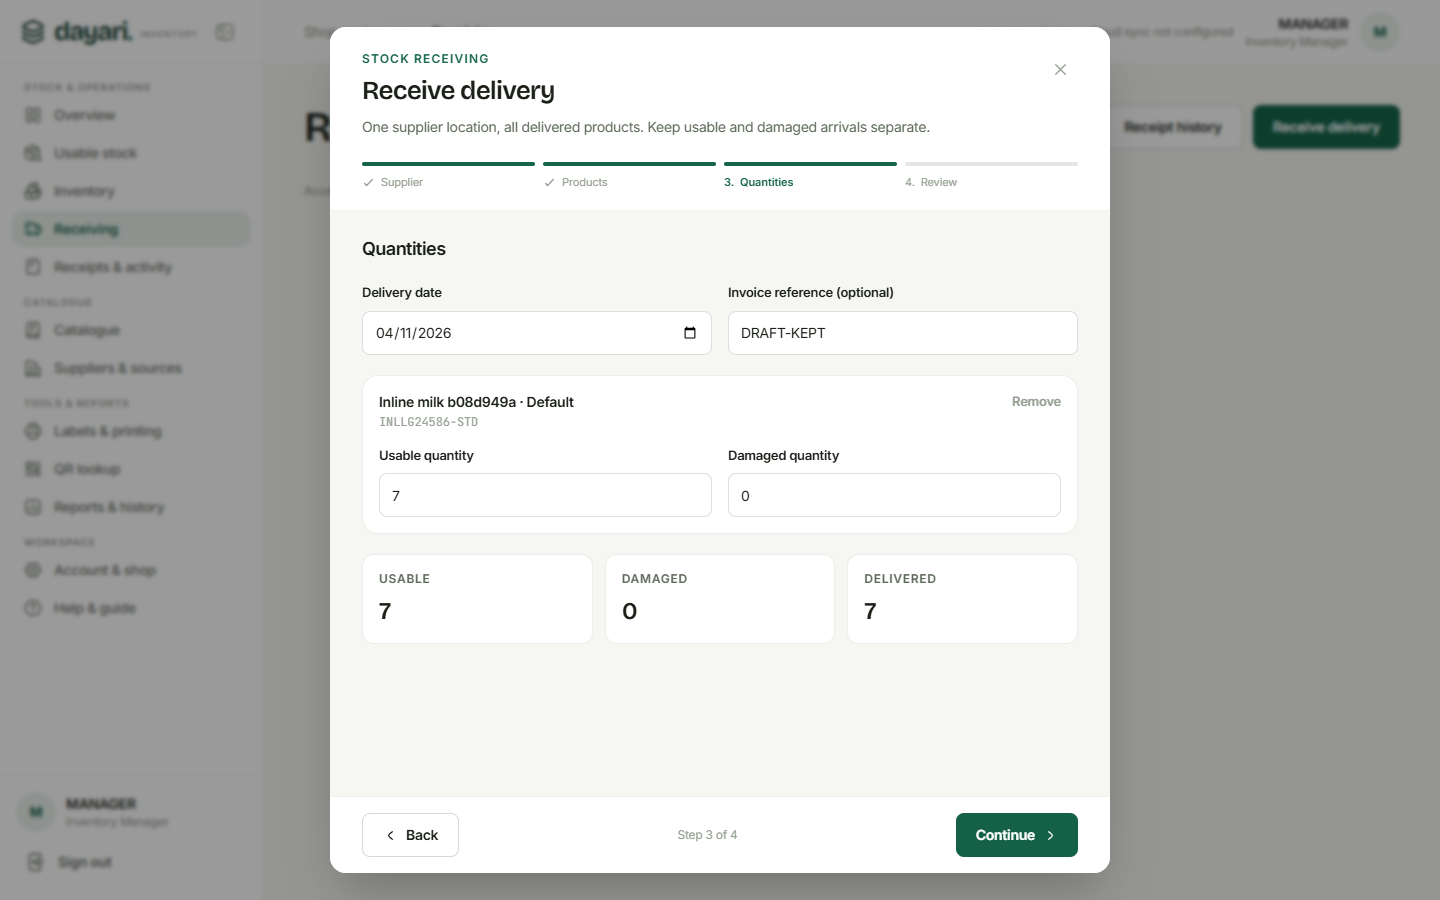
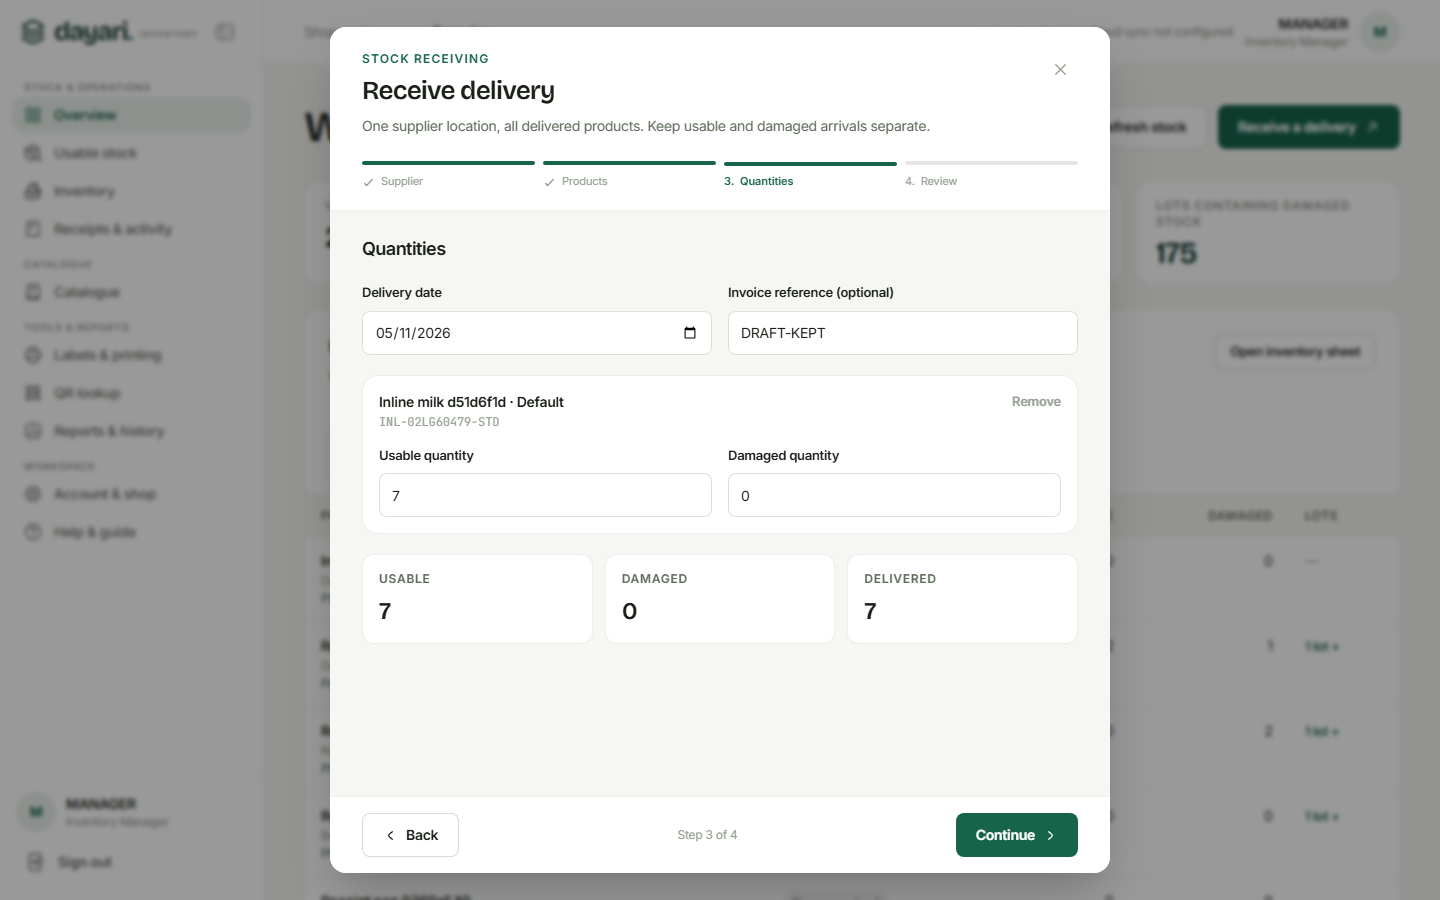
feat(receiving): open the receive wizard from any page
Overview and Receipts & activity start the same modal instead of routing to a separate page. After acceptance the user lands on the accepted receipt evidence, the workbench remounts so reads are fresh, and the Receiving route still works for deep links.

diff --git a/apps/web/app/page.tsx b/apps/web/app/page.tsx
@@ -1,6 +1,6 @@
 'use client';
 import { useCallback, useEffect, useRef, useState, type FormEvent } from 'react';
-import type { Catalogue, Role } from '@dayari/contracts';
+import type { Catalogue, ReceivingOptions, Role } from '@dayari/contracts';
 
 import { ApiError, api } from '../lib/api';
 import { AppShell } from '../components/shell/app-shell';
@@ -8,6 +8,7 @@ import { workspaceOrder, type Workspace } from '../components/shell/destinations
 import { LoginPage } from '../components/login-page';
 import { WorkspaceRouter } from '../components/workspace-router';
 import { ProductWizard, SupplierWizard } from '../components/catalogue/setup-wizards';
+import { ReceiveWizard } from '../components/receiving/receive-wizard';
 import { PasswordForm } from '../components/account-security';
 import { Button, ErrorNotice, SuccessNotice } from '../components/ui';
 
@@ -39,6 +40,17 @@ export default function DayariInventory() {
   const [flow, setFlow] = useState<'supplier' | 'product' | null>(null);
   const [supplierContext, setSupplierContext] = useState('');
   const [productContext, setProductContext] = useState('');
+
+  const [receiveOpen, setReceiveOpen] = useState(false);
+  const [receiveOptions, setReceiveOptions] = useState<ReceivingOptions | null>(null);
+  /** Remounts the active workspace after an accepted receipt so its reads refresh. */
+  const [dataVersion, setDataVersion] = useState(0);
+  /**
+   * Set after a receipt is accepted. The wizard still counts as busy while its
+   * save resolves, so the route change waits for the next commit, when the
+   * dialog has unmounted and its unsaved-draft guard is gone.
+   */
+  const [receiptToOpen, setReceiptToOpen] = useState('');
 
   const [detail, setDetail] = useState({
     catalogue: '',
@@ -140,6 +152,16 @@ export default function DayariInventory() {
     return () => window.removeEventListener('dayari:session-expired', expired);
   }, []);
 
+  useEffect(() => {
+    if (!receiptToOpen) return;
+
+    setReceiptToOpen('');
+    navigate('receipts', receiptToOpen);
+    setNotice('Delivery accepted. Receipt evidence and stock projections are updating.');
+    // navigate is declared below and is not a dependency of this one-shot handoff.
+    // eslint-disable-next-line react-hooks/exhaustive-deps
+  }, [receiptToOpen]);
+
   function navigate(next: Workspace, id = '', lotId = '') {
     if (!mayNavigate()) return;
 
@@ -194,6 +216,9 @@ export default function DayariInventory() {
       setCatalogueReady(false);
       setDetail({ catalogue: '', stock: '', lot: '', receipt: '', labelJob: '', qrCode: '' });
       setFlow(null);
+      setReceiveOpen(false);
+      setReceiveOptions(null);
+      setReceiptToOpen('');
       setError('');
       setNotice('');
     } catch (failure) {
@@ -220,6 +245,27 @@ export default function DayariInventory() {
     setError('');
     setNotice('');
     setFlow('product');
+  }
+
+  /**
+   * The receive wizard is a dialog, so any page can start a delivery without
+   * leaving its context. Options are loaded first to keep the dialog synchronous.
+   */
+  async function openReceive() {
+    setError('');
+    setNotice('');
+
+    try {
+      const options = await api<ReceivingOptions>('receiving/options');
+      if (!options.suppliers.length) {
+        setNotice('Ask Admin to register a supplier and its location prefix before receiving.');
+        return;
+      }
+      setReceiveOptions(options);
+      setReceiveOpen(true);
+    } catch (failure) {
+      setError((failure as Error).message);
+    }
   }
 
   async function saved(message: string) {
@@ -293,6 +339,7 @@ export default function DayariInventory() {
       ) : null}
 
       <WorkspaceRouter
+        key={dataVersion}
         workspace={current}
         catalogue={catalogue}
         catalogueReady={catalogueReady}
@@ -305,6 +352,7 @@ export default function DayariInventory() {
         onProductFlow={openProduct}
         onPasswordChanged={passwordChanged}
         onCatalogueChanged={setCatalogue}
+        onReceive={() => void openReceive()}
       />
 
       {flow === 'supplier' && user.role === 'ADMIN' ? (
@@ -323,6 +371,20 @@ export default function DayariInventory() {
           onClose={() => setFlow(null)}
           onSaved={saved}
           onConfigureSupplier={openSupplier}
+        />
+      ) : null}
+
+      {receiveOpen && receiveOptions ? (
+        <ReceiveWizard
+          options={receiveOptions}
+          onCatalogueChanged={setCatalogue}
+          onClose={() => setReceiveOpen(false)}
+          onSaved={(receipt) => {
+            setReceiveOpen(false);
+            setReceiveOptions(null);
+            setReceiptToOpen(receipt.id);
+            setDataVersion((version) => version + 1);
+          }}
         />
       ) : null}
     </AppShell>

diff --git a/tests/e2e/receiving-registration.spec.ts b/tests/e2e/receiving-registration.spec.ts
@@ -13,7 +13,7 @@ test('Manager registers products inside receiving while preserving the delivery 
   await expect(page.locator('[aria-label="Stock summary"] button')).toHaveCount(0);
   await expect(page.locator('[data-page-header] p')).toHaveCount(0);
   await page.getByRole('button',{name:'Sign out'}).click();await login('e2e-manager@dayari.test');
-  await page.getByRole('button',{name:'Receiving',exact:true}).click();await expect(page.getByText('Ready to receive',{exact:true})).toHaveCount(0);await page.getByRole('button',{name:'Receive delivery',exact:true}).click();
+  await page.getByRole('button',{name:'Receive a delivery',exact:true}).click();
   let dialog=page.getByRole('dialog');
   await choose(dialog,'Receiving supplier',supplier.supplier.id);
   await expect(dialog.getByRole('combobox',{name:'Receiving source',exact:true})).toHaveCount(0);
@@ -64,7 +64,8 @@ test('compact supplier lists and catalogue grids paginate with title-only header
   await page.getByRole('button',{name:'Catalogue',exact:true}).click();await expect(page.getByRole('button',{name:/View product/})).toHaveCount(18);
   await page.getByRole('button',{name:'Next page',exact:true}).click();await expect(page.getByText('Paged product 25',{exact:true})).toBeVisible();await expect(page.getByText('Paged product 01',{exact:true})).toHaveCount(0);
   await page.getByLabel('Search catalogue',{exact:true}).fill('product 01');await expect(page.getByText('Paged product 01',{exact:true})).toBeVisible();await expect(page.getByRole('button',{name:'Next page',exact:true})).toHaveCount(0);
-  await page.getByRole('button',{name:'Suppliers & sources',exact:true}).click();await expect(page.getByRole('heading',{name:/Paged supplier/})).toHaveCount(12);
+  await page.getByLabel('Search catalogue',{exact:true}).fill('');
+  await page.getByRole('button',{name:'Suppliers',exact:true}).click();await page.getByRole('button',{name:'Supplier directory',exact:true}).click();await expect(page.getByRole('heading',{name:/Paged supplier/})).toHaveCount(12);
   await page.getByRole('button',{name:'Next page',exact:true}).click();await expect(page.getByRole('heading',{name:'Paged supplier 13',exact:true})).toBeVisible();
   await page.getByLabel('Search suppliers',{exact:true}).fill('supplier 25');await expect(page.getByRole('heading',{name:'Paged supplier 25',exact:true})).toBeVisible();
   await expect(page.locator('[data-page-header] p')).toHaveCount(0);expect(await page.locator('[data-page-header]').evaluate(element=>getComputedStyle(element).borderLeftWidth)).toBe('0px');

diff --git a/tests/e2e/receiving.spec.ts b/tests/e2e/receiving.spec.ts
@@ -13,7 +13,7 @@ test('Manager receives a multi-product delivery, retries a lost response and see
  const skus=[...notebook.skus,...pen.skus];
  await page.getByRole('button',{name:'Sign out'}).click();await login('e2e-manager@dayari.test');
  await expect(page.getByRole('button',{name:'Add supplier',exact:true})).toHaveCount(0);
- await page.getByRole('button',{name:'Receiving',exact:true}).click();await page.getByRole('button',{name:'Receive delivery',exact:true}).click();
+ await page.getByRole('button',{name:'Overview',exact:true}).click();await page.getByRole('button',{name:'Receive a delivery',exact:true}).click();
  const dialog=page.getByRole('dialog');const next=()=>dialog.getByRole('button',{name:'Continue',exact:true}).click();
  await choose(dialog,'Receiving supplier',supplier.supplier.id);
  await expect(dialog.getByText('Saved location:',{exact:false})).toBeVisible();await expect(dialog.getByRole('combobox',{name:'Receiving source',exact:true})).toHaveCount(0);await next();
@@ -34,7 +34,7 @@ test('Manager receives a multi-product delivery, retries a lost response and see
  const accepted=await (await page.request.get(`/api/receipts/${acceptedId}`)).json();expect(accepted.lines).toHaveLength(3);expect(accepted.totals).toEqual({usable:'62',damaged:'3',delivered:'65'});
  const stock=await (await page.request.get(`/api/stock?sourceId=${supplier.source.id}`)).json();expect(stock.lots).toHaveLength(3);expect(stock.lots.find((x:any)=>x.skuId===skus[0].id)).toMatchObject({usable:'30',damaged:'2'});
  await expect(page.getByRole('region',{name:'Accepted batch balances'})).toContainText('30 usable');await page.setViewportSize({width:1280,height:900});await page.screenshot({path:'test-results/receiving-accepted.png'});
- await page.getByRole('button',{name:'Receipt history',exact:true}).click();
+ await page.getByRole('button',{name:'Back to receipt history',exact:true}).click();
  await page.getByLabel('Search receipts',{exact:true}).fill(accepted.batch.publicCode);
  await page.getByRole('button').filter({hasText:accepted.batch.publicCode}).filter({hasText:'View receipt'}).click();
  await expect(page.getByRole('region',{name:'Accepted receipt',exact:true})).toContainText(skus[0].fullCode);

diff --git a/apps/web/components/receiving/receipts-workspace.tsx b/apps/web/components/receiving/receipts-workspace.tsx
@@ -35,10 +35,12 @@ export function ReceiptsWorkspace({
   initialReceiptId = '',
   onStock,
   onSelect,
+  onReceive,
 }: {
   initialReceiptId?: string;
   onStock: (id: string) => void;
   onSelect: (id: string) => void;
+  onReceive?: () => void;
 }) {
   const [id, setId] = useState(initialReceiptId);
   const [search, setSearch] = useState('');
@@ -74,16 +76,19 @@ export function ReceiptsWorkspace({
         title="Receipts & activity"
         description="Immutable delivery records, ordered by acceptance. Delivery dates remain separate from the time stock was recorded."
         actions={
-          <Button
-            variant="secondary"
-            onClick={() => {
-              history.refresh();
-              if (id) receipt.refresh();
-            }}
-          >
-            <Icon icon={RefreshIcon} size={15} />
-            Refresh receipts
-          </Button>
+          <>
+            {onReceive ? <Button onClick={onReceive}>Receive delivery</Button> : null}
+            <Button
+              variant="secondary"
+              onClick={() => {
+                history.refresh();
+                if (id) receipt.refresh();
+              }}
+            >
+              <Icon icon={RefreshIcon} size={15} />
+              Refresh receipts
+            </Button>
+          </>
         }
       />
 

diff --git a/apps/web/components/workspace-router.tsx b/apps/web/components/workspace-router.tsx
@@ -66,6 +66,7 @@ export function WorkspaceRouter({
   onProductFlow,
   onPasswordChanged,
   onCatalogueChanged,
+  onReceive,
 }: {
   workspace: Workspace;
   catalogue: Catalogue;
@@ -79,6 +80,7 @@ export function WorkspaceRouter({
   onProductFlow: (id?: string) => void;
   onPasswordChanged: () => void;
   onCatalogueChanged: (catalogue: Catalogue) => void;
+  onReceive: () => void;
 }) {
   const home = () => navigate(user.role === 'PRODUCTION' ? 'availability' : 'dashboard');
 
@@ -187,6 +189,7 @@ export function WorkspaceRouter({
           initialReceiptId={detail.receipt}
           onSelect={(id) => navigate('receipts', id)}
           onStock={(id) => navigate('inventory', id)}
+          onReceive={onReceive}
         />
       );
 
@@ -213,6 +216,7 @@ export function WorkspaceRouter({
           navigate={navigate}
           onReceipt={(id) => navigate('receipts', id)}
           onLot={(productId, lotId) => navigate('inventory', productId, lotId)}
+          onReceive={onReceive}
         />
       );
   }

diff --git a/apps/web/components/dashboard.tsx b/apps/web/components/dashboard.tsx
@@ -61,6 +61,7 @@ export function Dashboard({
   navigate,
   onReceipt,
   onLot,
+  onReceive,
 }: {
   catalogue: Catalogue;
   name: string;
@@ -68,6 +69,7 @@ export function Dashboard({
   navigate: (workspace: Workspace) => void;
   onReceipt: (id: string) => void;
   onLot: (productId: string, lotId: string) => void;
+  onReceive: () => void;
 }) {
   const stock = useApiRead<OperationalStock>('stock');
   const receipts = useApiRead<ReceiptSummary[]>('receipts');
@@ -171,7 +173,7 @@ export function Dashboard({
               <Icon icon={RefreshIcon} size={15} />
               Refresh stock
             </Button>
-            <Button onClick={() => navigate('receiving')}>
+            <Button onClick={onReceive}>
               Receive a delivery
               <Icon icon={ArrowUpRight01Icon} size={16} strokeWidth={2} />
             </Button>
